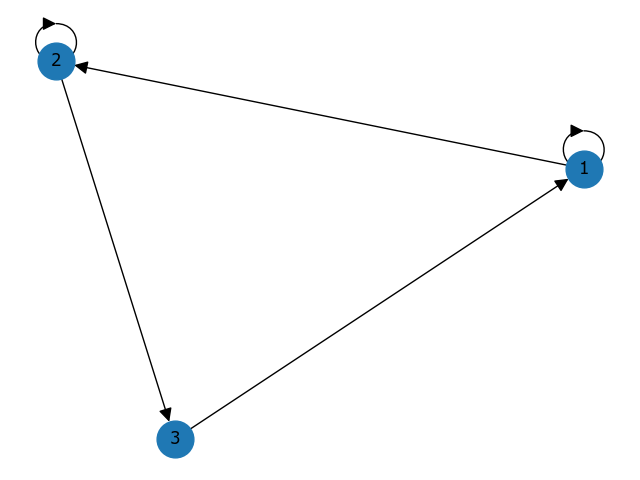
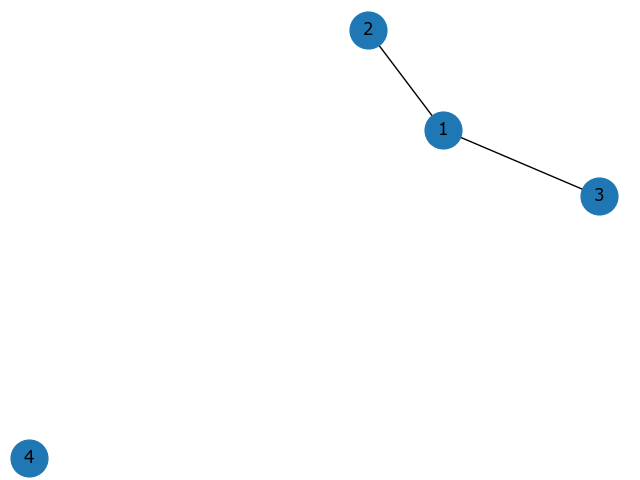
Изменения Euler

diff --git a/BottleWebProject_922_3_VSHLS/test_Euler.py b/BottleWebProject_922_3_VSHLS/test_Euler.py
@@ -3,13 +3,21 @@ from routes import function_transformation
 class Test_test_Euler(unittest.TestCase):
     
     def test_T(self):
-        matrix_correct_input = ["1;1;1","01;01;01","10;11","11;11","1;001","0","1","11111111111111","1111111111111111111111111111",
-                                "1111111111111111111111111111111111111111111111111111111111111111111111111111111111111111111111111111","             1"]
-        matrix_correct_output = ["DiGraph with 3 nodes and 3 edges","DiGraph with 3 nodes and 3 edges",
-                                 "DiGraph with 2 nodes and 3 edges","DiGraph with 2 nodes and 4 edges",
-                                 "DiGraph with 3 nodes and 2 edges","DiGraph with 1 nodes and 0 edges",
-                                 "DiGraph with 1 nodes and 1 edges","DiGraph with 14 nodes and 14 edges",
-                                 "DiGraph with 28 nodes and 28 edges", "DiGraph with 100 nodes and 100 edges",
+        matrix_correct_input = ["1;1;1","01;01;01","10;11","11;11","1;001","0","1",
+                                "11111111111111","1111111111111111111111111111",
+                                "11111111111111111111111111111111111111111111111111"+
+                                "11111111111111111111111111111111111111111111111111",
+                                "             1"]
+        matrix_correct_output = ["DiGraph with 3 nodes and 3 edges",
+                                 "DiGraph with 3 nodes and 3 edges",
+                                 "DiGraph with 2 nodes and 3 edges",
+                                 "DiGraph with 2 nodes and 4 edges",
+                                 "DiGraph with 3 nodes and 2 edges",
+                                 "DiGraph with 1 nodes and 0 edges",
+                                 "DiGraph with 1 nodes and 1 edges",
+                                 "DiGraph with 14 nodes and 14 edges",
+                                 "DiGraph with 28 nodes and 28 edges", 
+                                 "DiGraph with 100 nodes and 100 edges",
                                  "DiGraph with 1 nodes and 1 edges"]
         for i in range(len(matrix_correct_input)):
             self.assertEqual(str(function_transformation(matrix_correct_input[i])),matrix_correct_output[i]);

diff --git a/BottleWebProject_922_3_VSHLS/routes.py b/BottleWebProject_922_3_VSHLS/routes.py
@@ -81,15 +81,15 @@ def funcEuler():
             s = str(list(eulerian_circuit(G,source = 1)))
             result = "Graph is Euler"
             answer+="<p class=\"txt_algn_centr\">"+result+"</p><p class=\"txt_algn_centr\">Euler cycle: " + s[1 : -1].replace("),",") ->") +"</p>";
-            draw(G,pos =spring_layout(G), with_labels = True, node_size = 700,arrowsize = 20, font_family = 'Verdana', arrows = True)
-            savefig('./static/images/Euler/graph.png')
-            close()
-            answer+="<p class=\"txt_algn_centr\"><img src=\"./static/images/Euler/graph.png\" alt=\"Graph\"></p>"
             result += "\nEuler cycle: " + s
         else:
             result = "Graph is not Euler"
             answer+="<p class=\"txt_algn_centr\">"+result+"</p>"
-            answer +="</div></body>"
+        draw(G,pos =spring_layout(G), with_labels = True, node_size = 700,arrowsize = 20, font_family = 'Verdana', arrows = False)
+        savefig('./static/images/Euler/graph.png')
+        close()
+        answer+="<p class=\"txt_algn_centr\"><img src=\"./static/images/Euler/graph.png\" alt=\"Graph\"></p>"
+        answer +="</div></body>"
         entryToFile("Euler",str1,result)
         return back,answer
     else:
@@ -109,7 +109,6 @@ def funcEulerCloneForUT(str1):
     else:
         result = "Doesn't match the pattern of matrix"
     return result
-##################################################################################################
 def function_transformation(str1):
     ###function to format user enter###
     ###DiGraph networkx###
@@ -123,13 +122,14 @@ def function_transformation(str1):
     for i in range(len(mas1)):
         for j in range(len(mas1[i])):
             mas1[i][j] = int(mas[i][j])
-    G = DiGraph()
+    G = Graph()
     for i in range(len(mas1)):
         G.add_node(i+1) 
     for i in range(len(mas1)):
         for j in range(len(mas1[i])):
-            if(mas1[i][j] == 1):
-                G.add_edge(i+1,j+1)
+            if(i != j):
+                if(mas1[i][j] == 1):
+                    G.add_edge(i+1,j+1)
     print(G)
     return G
 ##################################################################################################
